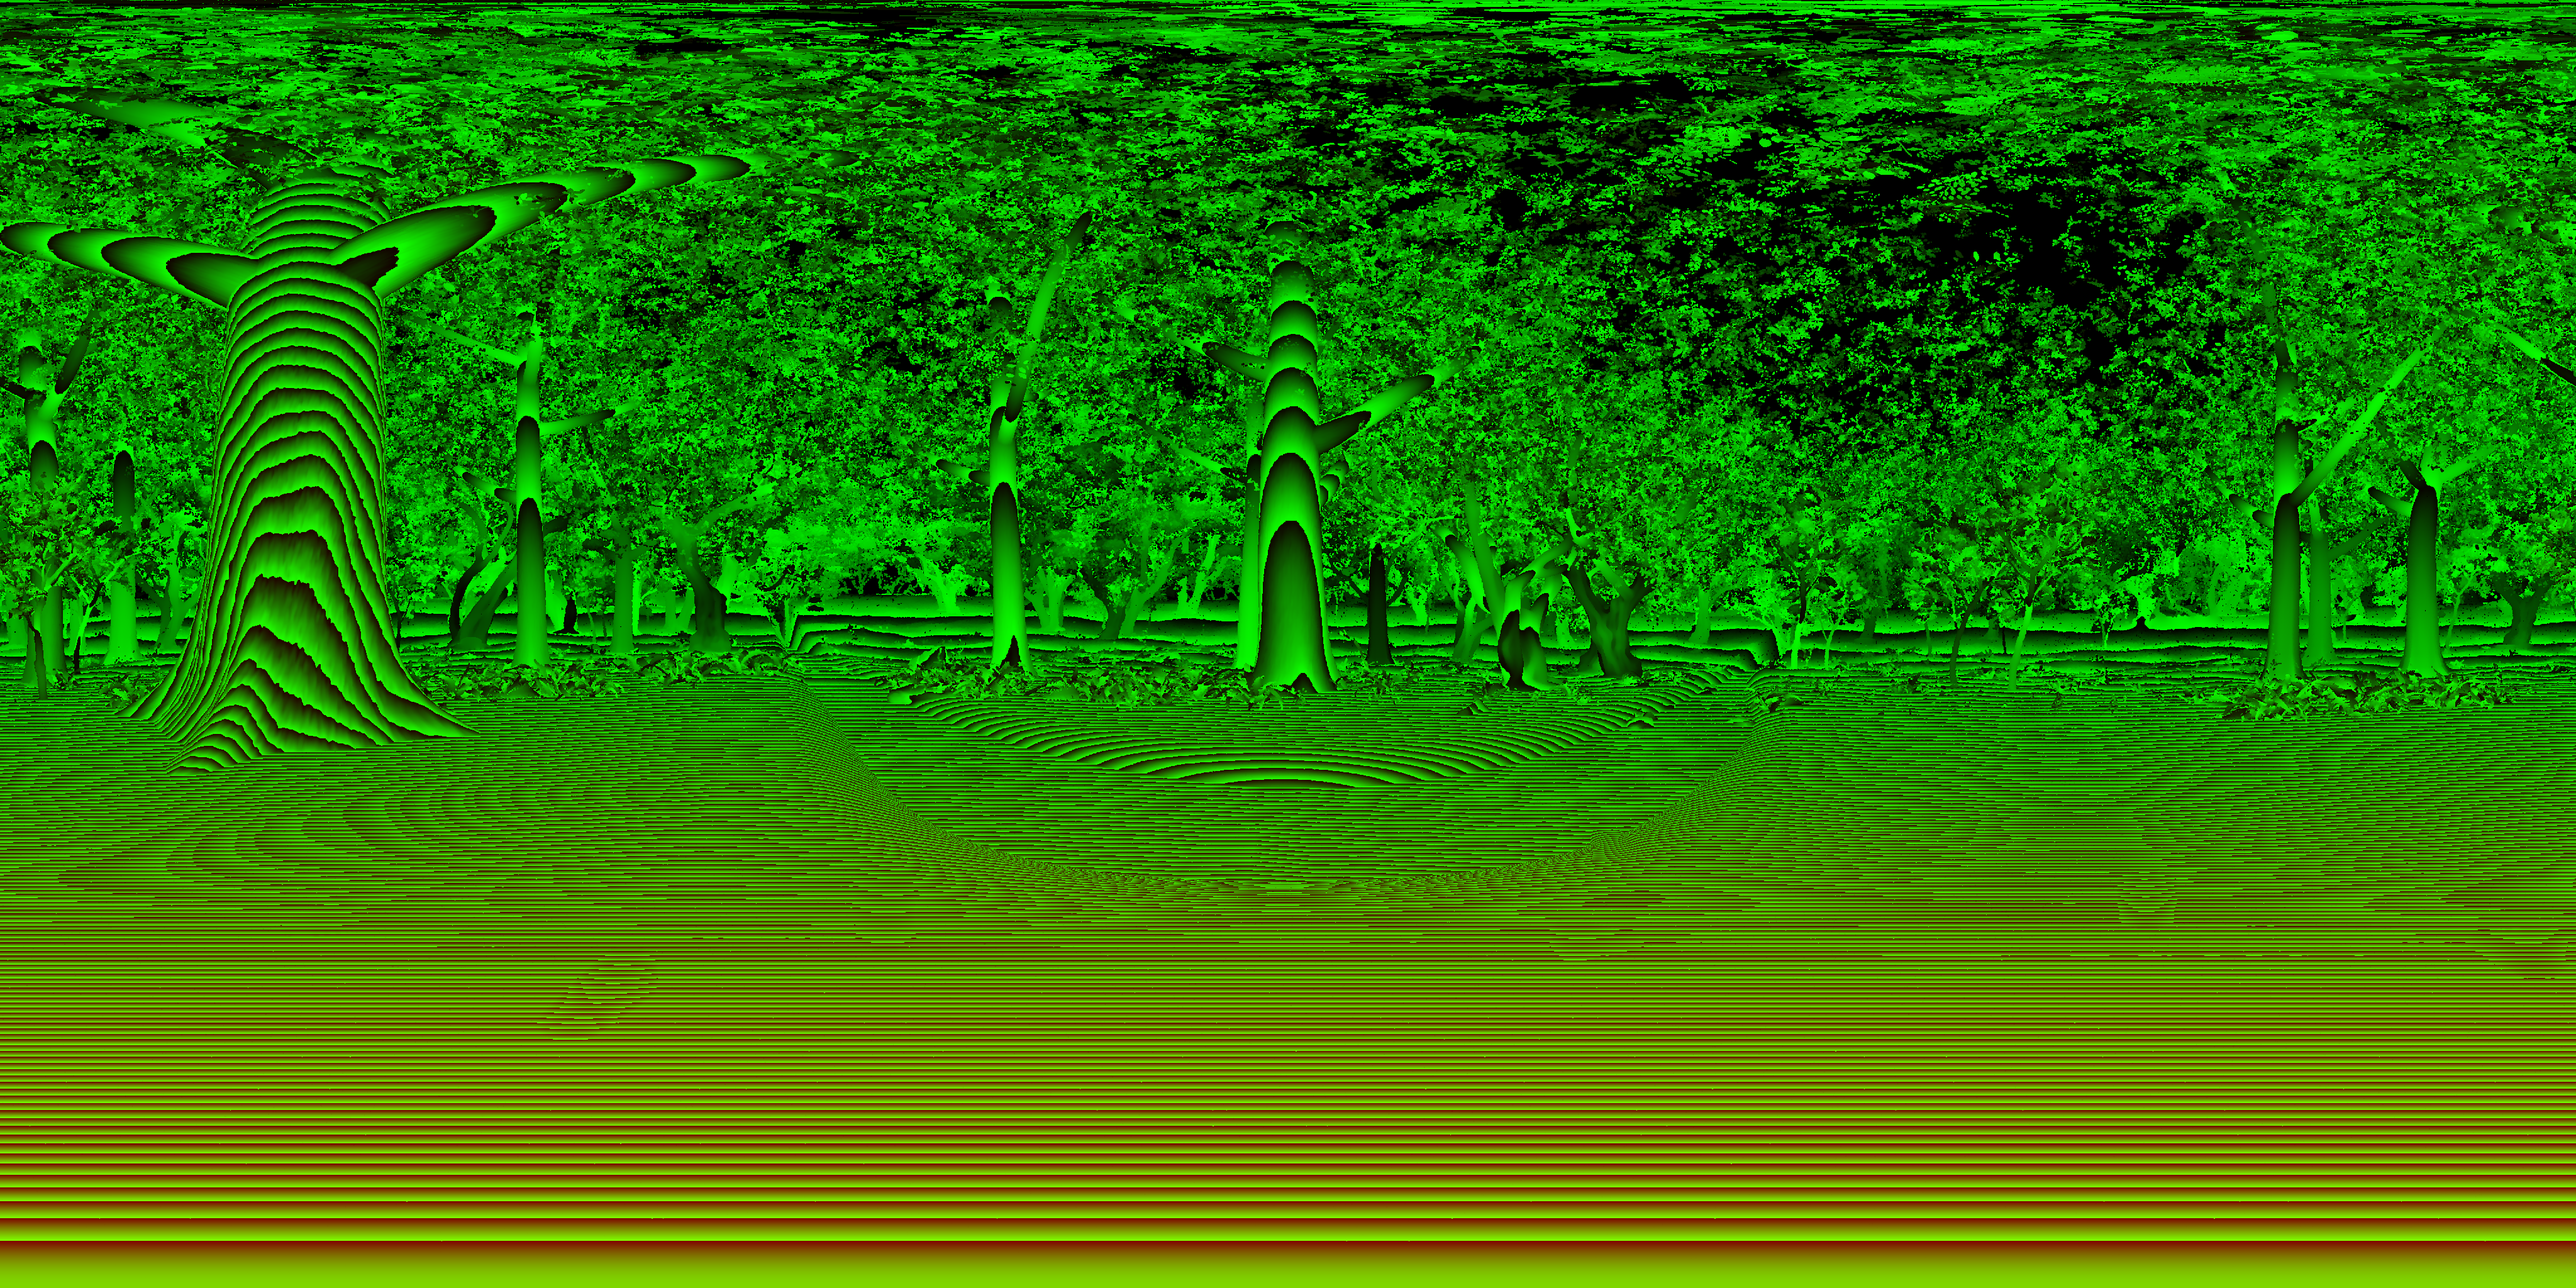
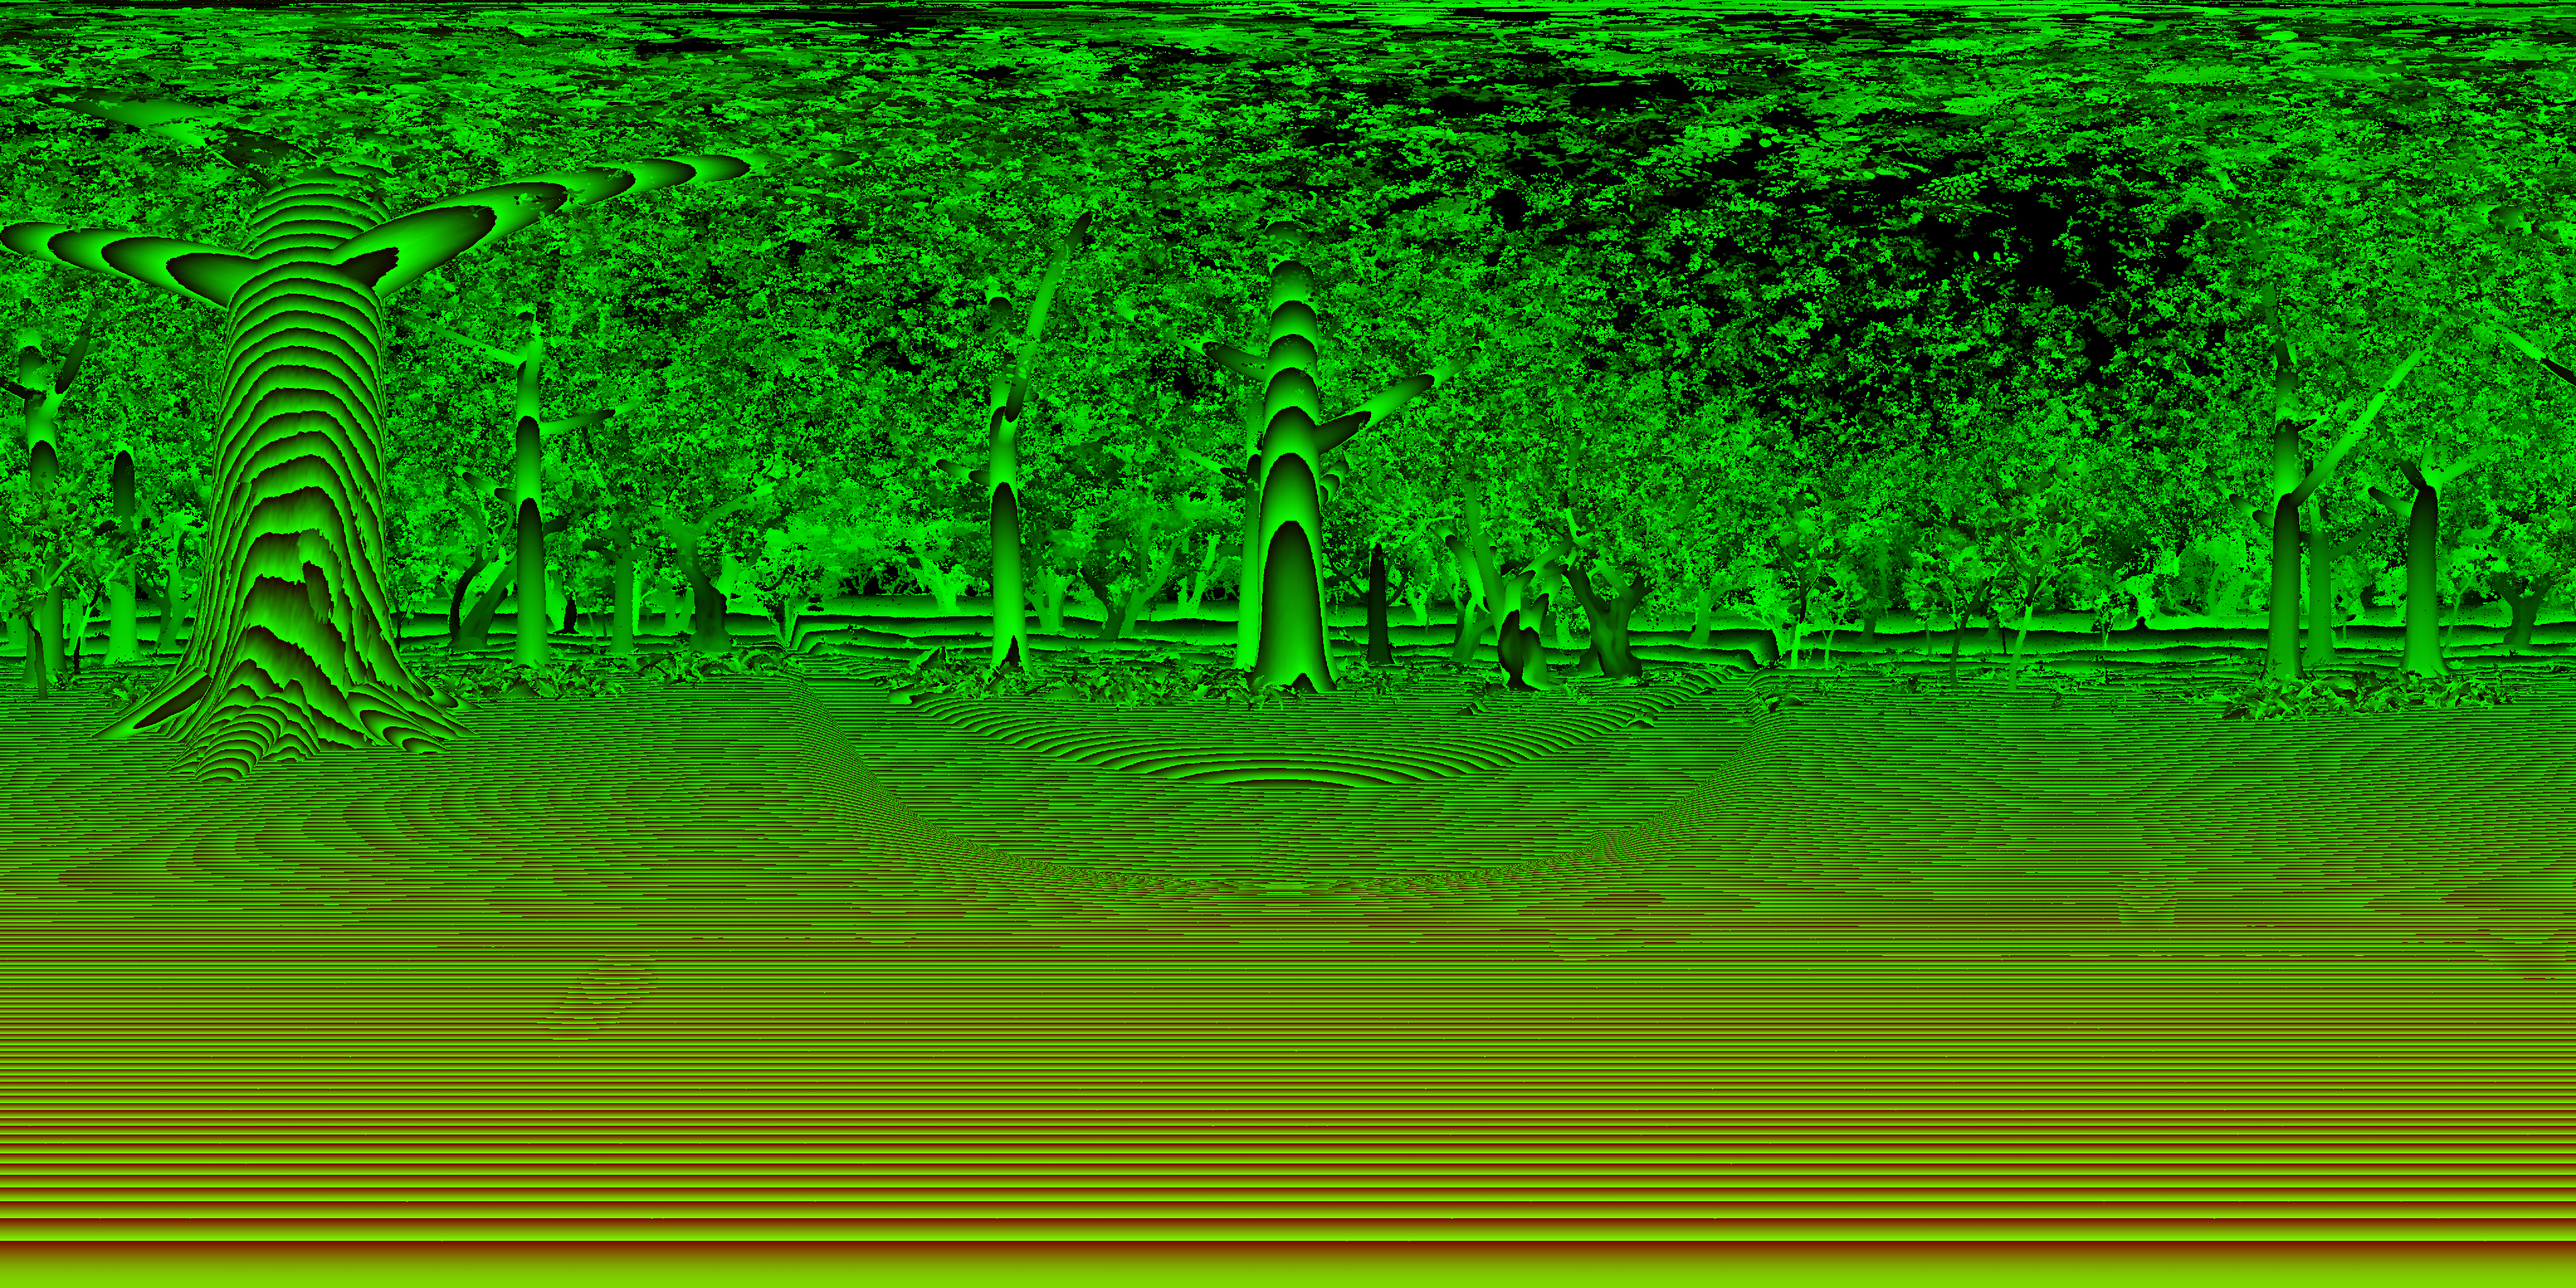
fix: the great oak stands on its roots in the forest, the opening no longer stalls when the firefly flies off or while the title burns in, a replayed opening lands on the written page instead of a blank one, and trunk edges follow a smooth outline instead of steps

Changed region(s): [[0.0312, 0.375, 0.1875, 0.625]]

diff --git a/src/scene/forest.js b/src/scene/forest.js
@@ -37,7 +37,7 @@ function inWorker(url, smooth){
 }
 function depthTexture(out, w, h, smooth){
   const t = new THREE.DataTexture(out, w, h, THREE.RedFormat, THREE.HalfFloatType);
-  t.wrapS = THREE.RepeatWrapping; t.magFilter = t.minFilter = smooth ? THREE.LinearFilter : THREE.NearestFilter; t.needsUpdate = true;
+  t.wrapS = THREE.RepeatWrapping; t.magFilter = t.minFilter = THREE.LinearFilter; t.needsUpdate = true;
   return t;
 }
 function softTexture(out, W, H){
@@ -131,7 +131,27 @@ function makeBackdrop(pano, depth, water, back, backDepth){
         return mix(mix(h21(i), h21(i + vec2(1.0, 0.0)), u.x), mix(h21(i + vec2(0.0, 1.0)), h21(i + vec2(1.0, 1.0)), u.x), u.y); }
       vec2 eqUv(vec3 q){ return vec2(atan(q.z, q.x)*0.15915494 + 0.5, asin(clamp(q.y, -1.0, 1.0))*0.31830989 + 0.5); }
       float unpack(float inv){ return 1.0/(inv*(1.0/uNear - 1.0/uFar) + 1.0/uFar); }
-      float distF(vec3 q){ vec2 u = eqUv(q); float a = textureLod(tDepth, u, 0.0).r;
+      float depthAt(vec2 u){
+        ivec2 sz = textureSize(tDepth, 0);
+        vec2 p = u*vec2(sz) - 0.5, f = fract(p);
+        ivec2 i0 = ivec2(floor(p)), i1 = i0 + 1;
+        i0.x = (i0.x + sz.x) % sz.x; i1.x = i1.x % sz.x;
+        i0.y = clamp(i0.y, 0, sz.y - 1); i1.y = clamp(i1.y, 0, sz.y - 1);
+        vec4 a = vec4(texelFetch(tDepth, i0, 0).r, texelFetch(tDepth, ivec2(i1.x, i0.y), 0).r,
+          texelFetch(tDepth, ivec2(i0.x, i1.y), 0).r, texelFetch(tDepth, i1, 0).r);
+        vec4 w = vec4((1.0 - f.x)*(1.0 - f.y), f.x*(1.0 - f.y), (1.0 - f.x)*f.y, f.x*f.y);
+        float hi = max(max(a.x, a.y), max(a.z, a.w)), lo = min(min(a.x, a.y), min(a.z, a.w));
+        if(hi - lo < 0.12*hi) return dot(a, w);
+        float mid = 0.5*(hi + lo);
+        vec4 n = step(mid, a);
+        float wn = dot(n, w);
+        float nearV = wn > 1e-4 ? dot(a*n, w)/wn : hi, farV = wn < 0.9999 ? dot(a*(1.0 - n), w)/(1.0 - wn) : lo;
+        vec2 e = 1.5/vec2(sz);
+        float b = 0.25*(textureLod(tDepth, u + e, 0.0).r + textureLod(tDepth, u - e, 0.0).r
+          + textureLod(tDepth, u + vec2(e.x, -e.y), 0.0).r + textureLod(tDepth, u + vec2(-e.x, e.y), 0.0).r);
+        return b > lo + 0.25*(hi - lo) ? nearV : farV;
+      }
+      float distF(vec3 q){ vec2 u = eqUv(q); float a = depthAt(u);
         float w = max(smoothstep(0.14, 0.42, q.y), smoothstep(120.0, 300.0, unpack(a)));
         if(w > 0.0){ float s = textureLod(tSoft, u, 0.0).r; a = mix(a, s, w*smoothstep(80.0, 150.0, unpack(s))); }
         return unpack(a); }
@@ -275,8 +295,16 @@ function makeBackdrop(pano, depth, water, back, backDepth){
     fragmentShader: `uniform sampler2D tLow; uniform mat4 uProj; varying vec4 vClip; varying vec3 vDir;
       void main(){
         vec2 s = vClip.xy/vClip.w*0.5 + 0.5;
-        gl_FragColor = vec4(texture2D(tLow, s).rgb, 1.0);
         ivec2 sz = textureSize(tLow, 0);
+        vec2 px = 1.0/vec2(sz);
+        vec4 c0 = texture2D(tLow, s), n1 = texture2D(tLow, s + vec2(px.x, 0.0)), n2 = texture2D(tLow, s - vec2(px.x, 0.0)),
+          n3 = texture2D(tLow, s + vec2(0.0, px.y)), n4 = texture2D(tLow, s - vec2(0.0, px.y));
+        vec4 f1 = texture2D(tLow, s + 2.0*vec2(px.x, 0.0)), f2 = texture2D(tLow, s - 2.0*vec2(px.x, 0.0)),
+          f3 = texture2D(tLow, s + 2.0*vec2(0.0, px.y)), f4 = texture2D(tLow, s - 2.0*vec2(0.0, px.y));
+        float zh = max(max(max(n1.a, n2.a), max(n3.a, n4.a)), c0.a), zl = min(min(min(n1.a, n2.a), min(n3.a, n4.a)), c0.a);
+        float edge = zh > 0.0 ? smoothstep(0.06, 0.3, (zh - zl)/zh) : 0.0;
+        vec3 soft = (c0.rgb*3.0 + (n1.rgb + n2.rgb + n3.rgb + n4.rgb)*2.0 + f1.rgb + f2.rgb + f3.rgb + f4.rgb)/15.0;
+        gl_FragColor = vec4(mix(c0.rgb, soft, edge), 1.0);
         float z = texelFetch(tLow, clamp(ivec2(s*vec2(sz)), ivec2(0), sz - 1), 0).a;
         vec4 c = uProj*viewMatrix*vec4(cameraPosition + normalize(vDir)*z, 1.0);
         gl_FragDepth = z > 0.0 ? clamp(c.z/c.w*0.5 + 0.5, 0.0, 1.0) : 1.0;

diff --git a/index.html b/index.html
@@ -12,7 +12,7 @@
   "imports": {
     "three": "https://cdn.jsdelivr.net/npm/three@0.169.0/build/three.module.js",
     "three/addons/": "https://cdn.jsdelivr.net/npm/three@0.169.0/examples/jsm/",
-    "./src/app/loop.js": "./src/app/loop.js?v=acdfbedf8c",
+    "./src/app/loop.js": "./src/app/loop.js?v=f3a278fa9a",
     "./src/assets/depth-worker.js": "./src/assets/depth-worker.js?v=613be400b3",
     "./src/assets/load.js": "./src/assets/load.js?v=e634880017",
     "./src/assets/loaders.js": "./src/assets/loaders.js?v=13f4820c2e",
@@ -30,13 +30,13 @@
     "./src/book/state.js": "./src/book/state.js?v=2ab2336769",
     "./src/book/turning.js": "./src/book/turning.js?v=b9df93ac6c",
     "./src/book/view.js": "./src/book/view.js?v=b087b89d77",
-    "./src/core/config.js": "./src/core/config.js?v=9b9bcc1533",
+    "./src/core/config.js": "./src/core/config.js?v=b527416638",
     "./src/core/easing.js": "./src/core/easing.js?v=387623d1e5",
     "./src/core/errors.js": "./src/core/errors.js?v=68797020b6",
     "./src/core/launch.js": "./src/core/launch.js?v=2092a1ccde",
-    "./src/film/capture.js": "./src/film/capture.js?v=c749fa9ea1",
+    "./src/film/capture.js": "./src/film/capture.js?v=b89309b846",
     "./src/film/intro.js": "./src/film/intro.js?v=2a0b8b4532",
-    "./src/film/opening.js": "./src/film/opening.js?v=16321397ca",
+    "./src/film/opening.js": "./src/film/opening.js?v=d0ddc4cb56",
     "./src/fx/ink-fx.js": "./src/fx/ink-fx.js?v=4dc8c5cd0e",
     "./src/fx/magic.js": "./src/fx/magic.js?v=f067fee0ad",
     "./src/ink/layout.js": "./src/ink/layout.js?v=a93056cabe",
@@ -47,10 +47,10 @@
     "./src/input/gestures.js": "./src/input/gestures.js?v=0ec13ae785",
     "./src/lib/noise.js": "./src/lib/noise.js?v=85ceeb418c",
     "./src/lib/textures.js": "./src/lib/textures.js?v=39f45ea3f3",
-    "./src/main.js": "./src/main.js?v=8e047a0d79",
+    "./src/main.js": "./src/main.js?v=f3ced5dc41",
     "./src/scene/contact.js": "./src/scene/contact.js?v=c653fbbf79",
     "./src/scene/forest-life.js": "./src/scene/forest-life.js?v=47bfe8ea17",
-    "./src/scene/forest.js": "./src/scene/forest.js?v=3887e832c6",
+    "./src/scene/forest.js": "./src/scene/forest.js?v=d345d0b134",
     "./src/scene/plants.js": "./src/scene/plants.js?v=55b8a30efb",
     "./src/scene/post.js": "./src/scene/post.js?v=d2c9136f74",
     "./src/scene/renderer.js": "./src/scene/renderer.js?v=e895a81187",
@@ -79,7 +79,7 @@
 <link rel="preload" as="image" href="assets/leather/brown_leather_rough_1k.jpg">
 <link rel="preload" as="image" href="assets/models/gold_front_mask.png?v=2">
 <link rel="preload" as="image" href="assets/models/gold_back_mask.png?v=2">
-<link rel="preload" as="image" href="assets/forest/forest_4k.jpg?v=7">
+<link rel="preload" as="image" href="assets/forest/forest_4k.jpg?v=8">
 <link rel="preload" as="image" href="assets/forest/water.webp?v=2">
 <link rel="preload" as="image" href="assets/rock/granite.jpg">
 <link rel="preload" as="image" href="assets/rock/moss.jpg">
@@ -159,6 +159,6 @@
 <pre id="err"></pre>
 
 <script src="src/core/errors.js?v=68797020b6"></script>
-<script type="module" src="src/main.js?v=8e047a0d79"></script>
+<script type="module" src="src/main.js?v=f3ced5dc41"></script>
 </body>
 </html>

diff --git a/src/film/opening.js b/src/film/opening.js
@@ -10,8 +10,8 @@ import { BURN_T, burnNoise, CHAR, COOL_T, EMBER, NIB_DX, NIB_DY, ramp, setBurnNo
 import { lend, pageEntry, paintPage } from '../book/pages.js';
 import { pagePointWorld } from '../book/leaves.js';
 import { invalidateLayout, layout, st } from '../book/state.js';
-import { camTarget, fitDistance, homeQuat, orbit, spinGoal } from '../book/view.js';
-import { homeSpread } from '../ink/storage.js';
+import { camTarget, fitDistance, homeQuat, orbit, sideOf, spinGoal } from '../book/view.js';
+import { homePage, homeSpread } from '../ink/storage.js';
 import { nextSmoke, smokeAge, smokeKind, smokeLife, smokePos, smokeSeed, smokeVel, smokeWait } from '../fx/ink-fx.js';
 import { coverAnim } from '../book/turning.js';
 import { seekSpread } from '../book/seek.js';
@@ -206,12 +206,15 @@ function titleBurn(o){
     const X0 = Math.max(0, Math.floor(G.x0 - s*0.14)), Y0 = Math.max(0, Math.floor(G.y0 - s*0.12));
     const X1 = Math.min(W, Math.ceil(G.x1 + s*0.32)), Y1 = Math.min(H, Math.ceil(G.y1 + s*0.12));
     const w = X1 - X0, h = Y1 - Y0;
-    const ink = new Uint8ClampedArray(w*h*4);
-    for(let y=0;y<h;y++) for(let x=0;x<w;x++){
-      const X = X0 + x;
-      ink[(y*w + x)*4 + 3] = X >= G.x0 && X <= G.x1 ? T.inkA[(Y0 + y)*W + X] : 0;
+    if(!G.ink){
+      G.ink = new Uint8ClampedArray(w*h*4);
+      for(let y=0;y<h;y++) for(let x=0;x<w;x++){
+        const X = X0 + x;
+        G.ink[(y*w + x)*4 + 3] = X >= G.x0 && X <= G.x1 ? T.inkA[(Y0 + y)*W + X] : 0;
+      }
+      G.soft = softMask(G.ink, w, h, Math.max(1, Math.round(2.4*FS))).slice(0, w*h);
     }
-    const soft = softMask(ink, w, h, Math.max(1, Math.round(2.4*FS)));
+    const ink = G.ink, soft = G.soft;
     const sMin = G.x0*NIB_DX + G.y0*NIB_DY, sSpan = Math.max(1, G.x1*NIB_DX + G.y1*NIB_DY - sMin);
     const [cc, pc, lc] = T.cvs;
     [cc, pc, lc].forEach(c=>{ if(c.width < w || c.height < h){ c.width = Math.max(c.width, w); c.height = Math.max(c.height, h); } });
@@ -310,6 +313,10 @@ function stepCamBlend(dt){
   camera.updateProjectionMatrix();
   if(k >= 1){ camBlend = null; settle(); }
 }
+function goHome(){
+  st.focusSide = sideOf(homePage());
+  seekSpread(homeSpread());
+}
 function takeOver(mode, poses){
   const pose = poses && poses[intro.kind];
   if(mode === 'open'){ st.open = true; st.k = 0; }
@@ -331,7 +338,7 @@ function takeOver(mode, poses){
   refreshUI();
   frame();
   setTimeout(()=>{
-    if(mode === 'open'){ if(homeSpread() !== st.k) seekSpread(homeSpread()); }
+    if(mode === 'open'){ if(homeSpread() !== st.k) goHome(); }
     else if(!st.open && !coverAnim) seekSpread(homeSpread(), { flourish: false });
   }, mode === 'open' ? 1300 : 1500);
 }
@@ -347,7 +354,7 @@ function playLive(L){
     }else settle();
     refreshUI();
     if(intro.end) intro.end();
-    setTimeout(()=>{ if(homeSpread() !== st.k) seekSpread(homeSpread()); }, how === 'skip' ? 1800 : 900);
+    setTimeout(()=>{ if(homeSpread() !== st.k) goHome(); }, how === 'skip' ? 1800 : 900);
   };
   if(intro.started) intro.started(L);
   refreshUI();

diff --git a/src/core/config.js b/src/core/config.js
@@ -38,10 +38,10 @@ const capFont = (f, size) => `${f.capWeight || 400} ${Math.round(size)}px ${f.ca
 const fontCss = (f, size, weight) => `${f.style==='italic'?'italic ':''}${weight||f.weight} ${Math.round(size)}px ${f.css}, "Cormorant Garamond", serif`;
 
 const ASSETS = {
-  forest: 'assets/forest/forest_4k.jpg?v=7', forestDepth: 'assets/forest/depth_4k.webp?v=7',
-  forestFull: HI_RES ? 'assets/forest/forest.jpg?v=7' : null, depthFull: HI_RES ? 'assets/forest/depth.webp?v=7' : null,
+  forest: 'assets/forest/forest_4k.jpg?v=8', forestDepth: 'assets/forest/depth_4k.webp?v=8',
+  forestFull: HI_RES ? 'assets/forest/forest.jpg?v=8' : null, depthFull: HI_RES ? 'assets/forest/depth.webp?v=8' : null,
   forestWater: 'assets/forest/water.webp?v=2', forestLight: 'assets/forest/light_1k.hdr',
-  forestBack: 'assets/forest/back.jpg?v=7', forestBackDepth: 'assets/forest/back_depth.webp?v=7', forestNear: 'assets/forest/near.json?v=5',
+  forestBack: 'assets/forest/back.jpg?v=7', forestBackDepth: 'assets/forest/back_depth.webp?v=8', forestNear: 'assets/forest/near.json?v=5',
   brook: 'assets/audio/forest_brook.wav', magicBed: 'assets/audio/magic_forest.wav',
   twinkles: ['assets/audio/twinkle_a.mp3', 'assets/audio/twinkle_b.mp3', 'assets/audio/twinkle_c.mp3'],
   leaAlbedo: 'assets/leather/brown_leather_albedo_1k.jpg', leaNor: 'assets/leather/brown_leather_nor_gl_1k.jpg',

diff --git a/src/film/capture.js b/src/film/capture.js
@@ -272,8 +272,7 @@ const wingBlur = (()=>{
     fly.add(wh);
     flyWings.push({ g: wh, w, sx });
   }
-  fly.add(flyLight);
-  flyLight.position.set(0, -0.02, -0.06);
+  scene.add(flyLight);
 }
 fly.scale.setScalar(2.4);
 scene.add(fly);
@@ -342,6 +341,8 @@ function stepFirefly(t, dt){
   flyLamp.color.setRGB(0.95*L*2.2, 1.0*L*2.2, 0.45*L*2.2);
   flyLight.intensity = L*0.45;
   _lamp.set(0, -0.012, -0.062).multiplyScalar(2.4).applyQuaternion(fly.quaternion).add(p);
+  flyLight.position.copy(_lamp);
+  if(!fly.visible) flyLight.intensity = 0;
   litPos.set([_lamp.x, _lamp.y, _lamp.z], 0);
   litA[0] = fly.visible ? Math.min(1, L)*0.85 : 0;
   litS[0] = 8.0*(0.6 + 0.4*Math.min(1.4, L));

diff --git a/src/app/loop.js b/src/app/loop.js
@@ -323,7 +323,7 @@ function still(){
     && !coverAnim && !spinAnim && !inertia && !orbit.coast && seek.goal === null;
 }
 function calm(){
-  const quiet = ()=> !story && !g && !pinch && !st.flight && !st.riffle && !coverAnim && !spinAnim && !inertia && !orbit.coast;
+  const quiet = ()=> !story && !g && !pinch && !st.flight && !st.riffle && !coverAnim && !spinAnim && !inertia && !orbit.coast && !camBlend && seek.goal === null;
   return new Promise(r=>{ const check = ()=> quiet() ? r() : setTimeout(check, 150); check(); });
 }
 let rafDt = 1000/60, rafAt = 0;

diff --git a/src/main.js b/src/main.js
@@ -111,7 +111,7 @@ async function boot(){
     return;
   }
   requestAnimationFrame(rafLoop);
-  Promise.resolve(settled && settled.p).then(()=>loadMore(calm));
+  Promise.resolve(settled && settled.p).then(()=>new Promise(r=>setTimeout(r, settled ? 2500 : 0))).then(()=>loadMore(calm));
 }
 document.fonts.addEventListener && document.fonts.addEventListener('loadingdone', ()=>{ pageCache.forEach((e,n)=>paintPage(n)); });
 
